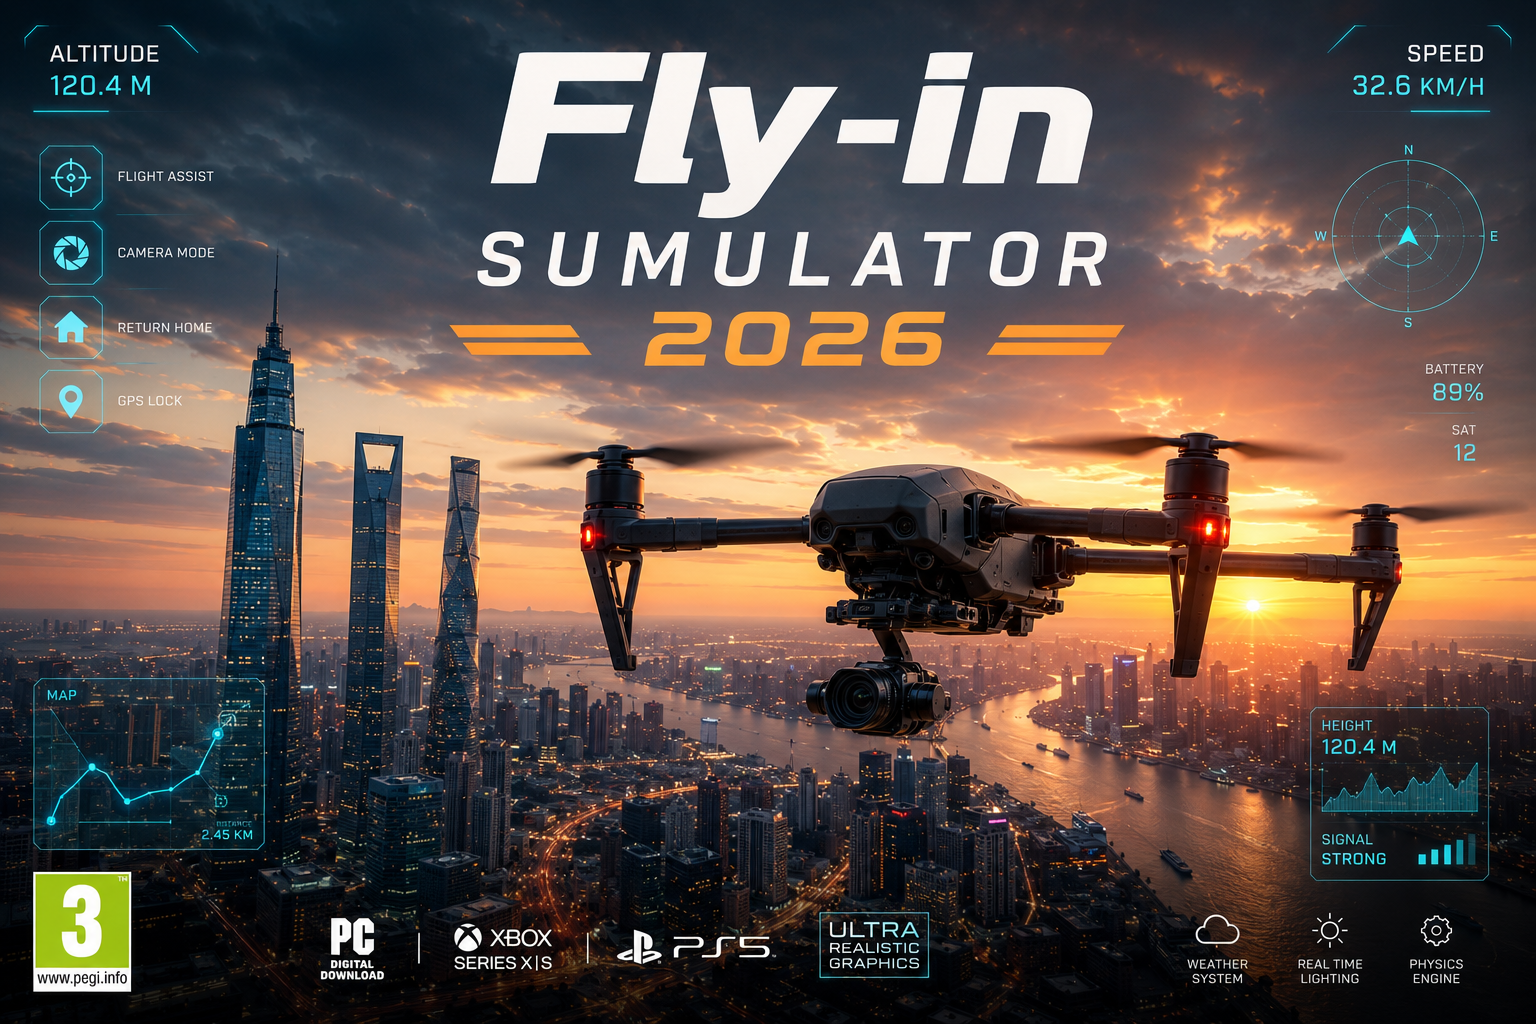
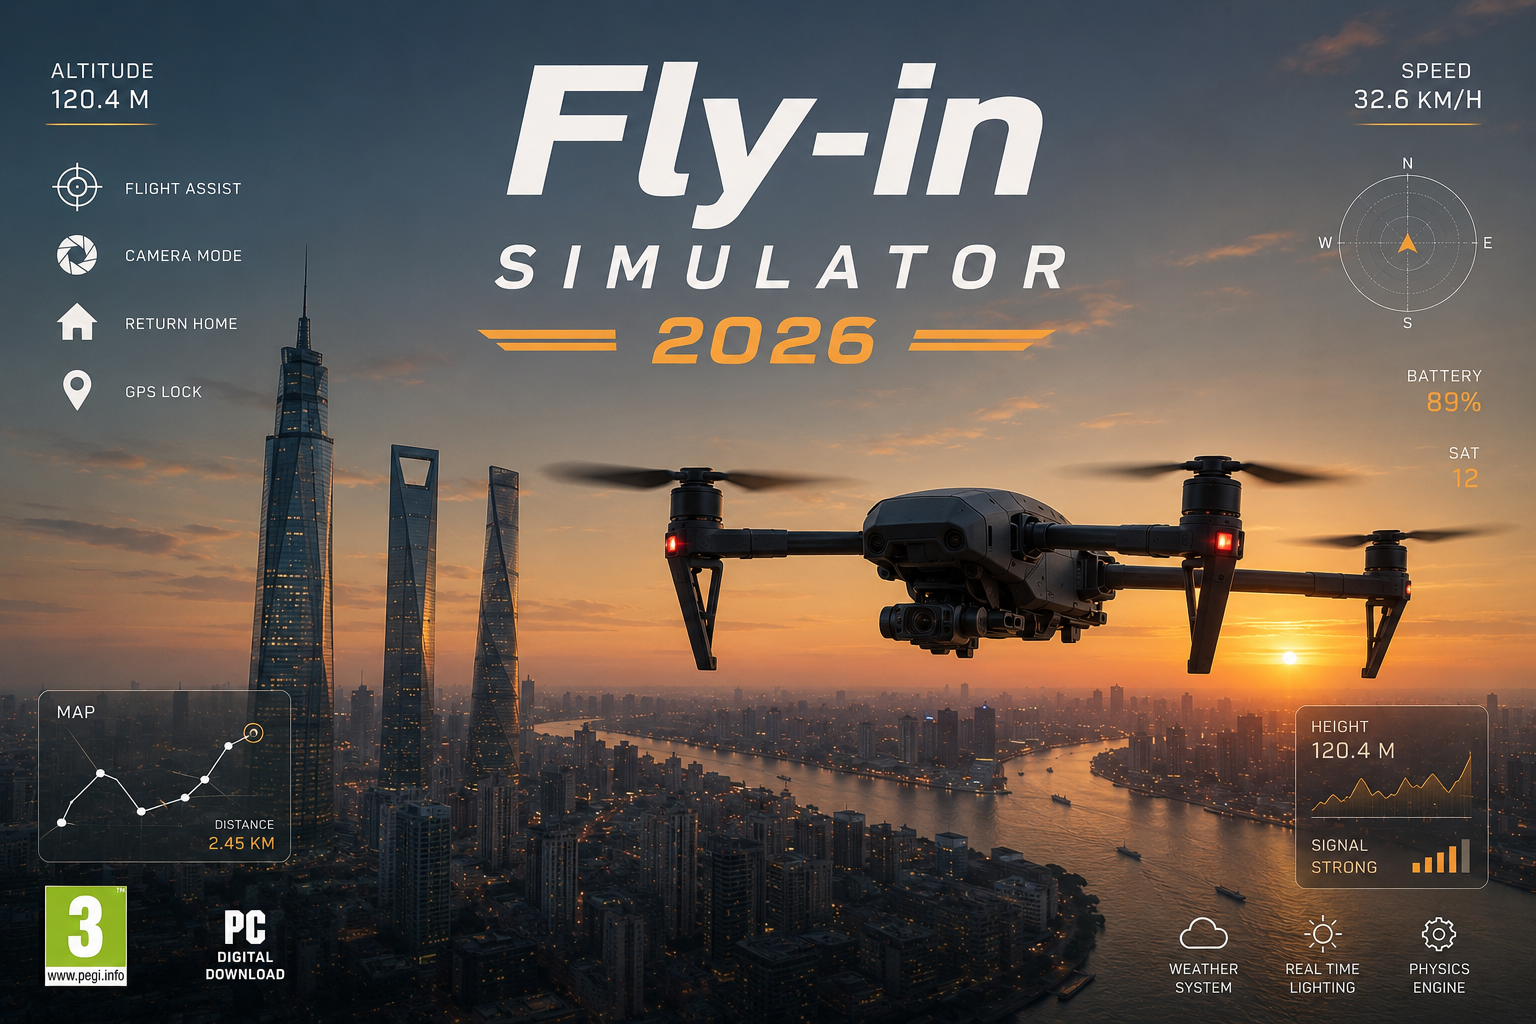
supp **_ at startname off map

diff --git a/graph/menu.py b/graph/menu.py
@@ -117,30 +117,6 @@ def map_selection() -> str:
                             break
             screen.blit(fond, (0, 0))
 
-            draw_text_box(
-                screen,
-                "Press ENTER to launch",
-                font,
-                (180, 180, 180),
-                (50, 30)
-            )
-
-            draw_text_box(
-                screen,
-                "Choose a map",
-                font,
-                (255, 255, 255),
-                (50, 85)
-            )
-
-            draw_text_box(
-                screen,
-                "Press ESC to quit",
-                font,
-                (255, 50, 50),
-                (930, 30)
-            )
-
             for i, (map_name, is_valid) in enumerate(maps):
                 if not is_valid:
                     color = (255, 50, 50)
@@ -153,10 +129,10 @@ def map_selection() -> str:
                     display_name += " [UNUSABLE]"
                 draw_text_box(
                             screen,
-                            display_name,
+                            display_name[3:],
                             font,
                             color,
-                            (50, 140 + i * 55)
+                            (50, 90 + i * 55)
                         )
 
             pygame.display.flip()
@@ -166,7 +142,8 @@ def map_selection() -> str:
 
 
 def draw_text_box(screen: pygame.Surface, text: str, font: pygame.font.Font,
-                  text_color: tuple[int, int, int], pos: tuple[int, int]) -> pygame.Rect:
+                  text_color: tuple[int, int, int],
+                  pos: tuple[int, int]) -> pygame.Rect:
 
     txt = font.render(text, True, text_color)
     rect = txt.get_rect(topleft=pos)
@@ -212,4 +189,3 @@ def draw_text_box(screen: pygame.Surface, text: str, font: pygame.font.Font,
 
     screen.blit(txt, rect)
     return box_rect
-

diff --git a/graph/graph.py b/graph/graph.py
@@ -1,6 +1,7 @@
 from Parsing.models import Level, Node, Connection, Zone
 from Parsing.exception import MapError
 
+
 class Graph:
 
     def __init__(self, level: Level) -> None:
@@ -51,7 +52,7 @@ class Graph:
         return (self.nodes[hub_name].metadata.zone == Zone.PRIORITY)
 
     def shortest_path(self, start: str, end: str) -> list[str]:
-        """THis method will only be sed to check if a path exist
+        """This method will only be sed to check if a path exist
         between start and goal"""
         from heapq import heappush, heappop
 